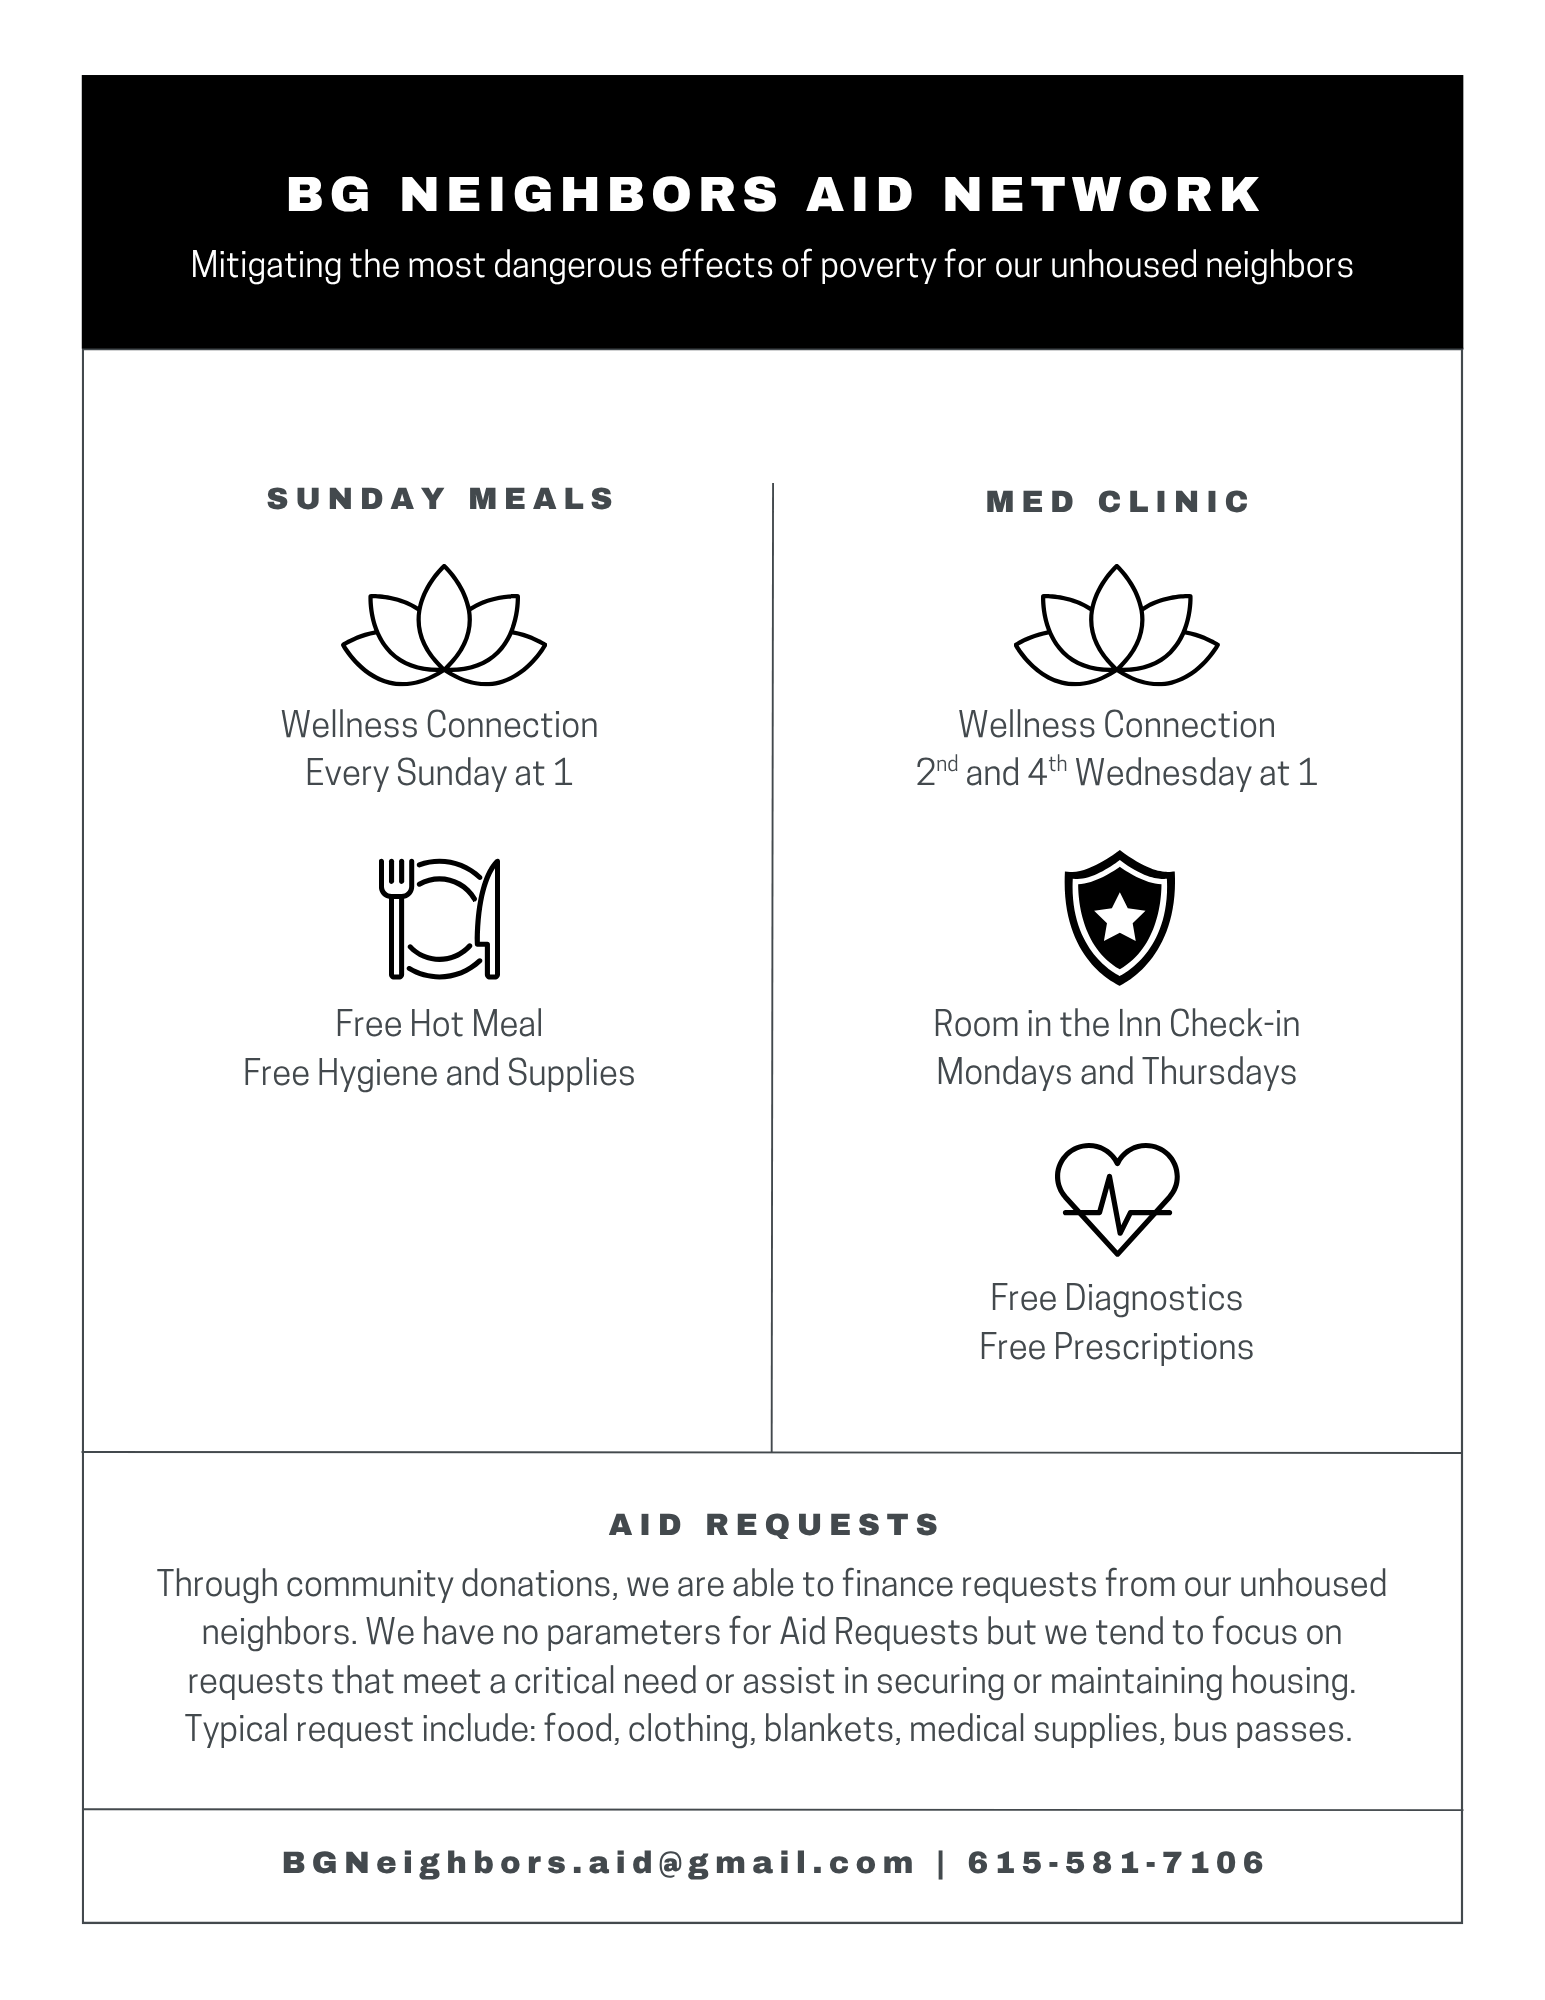
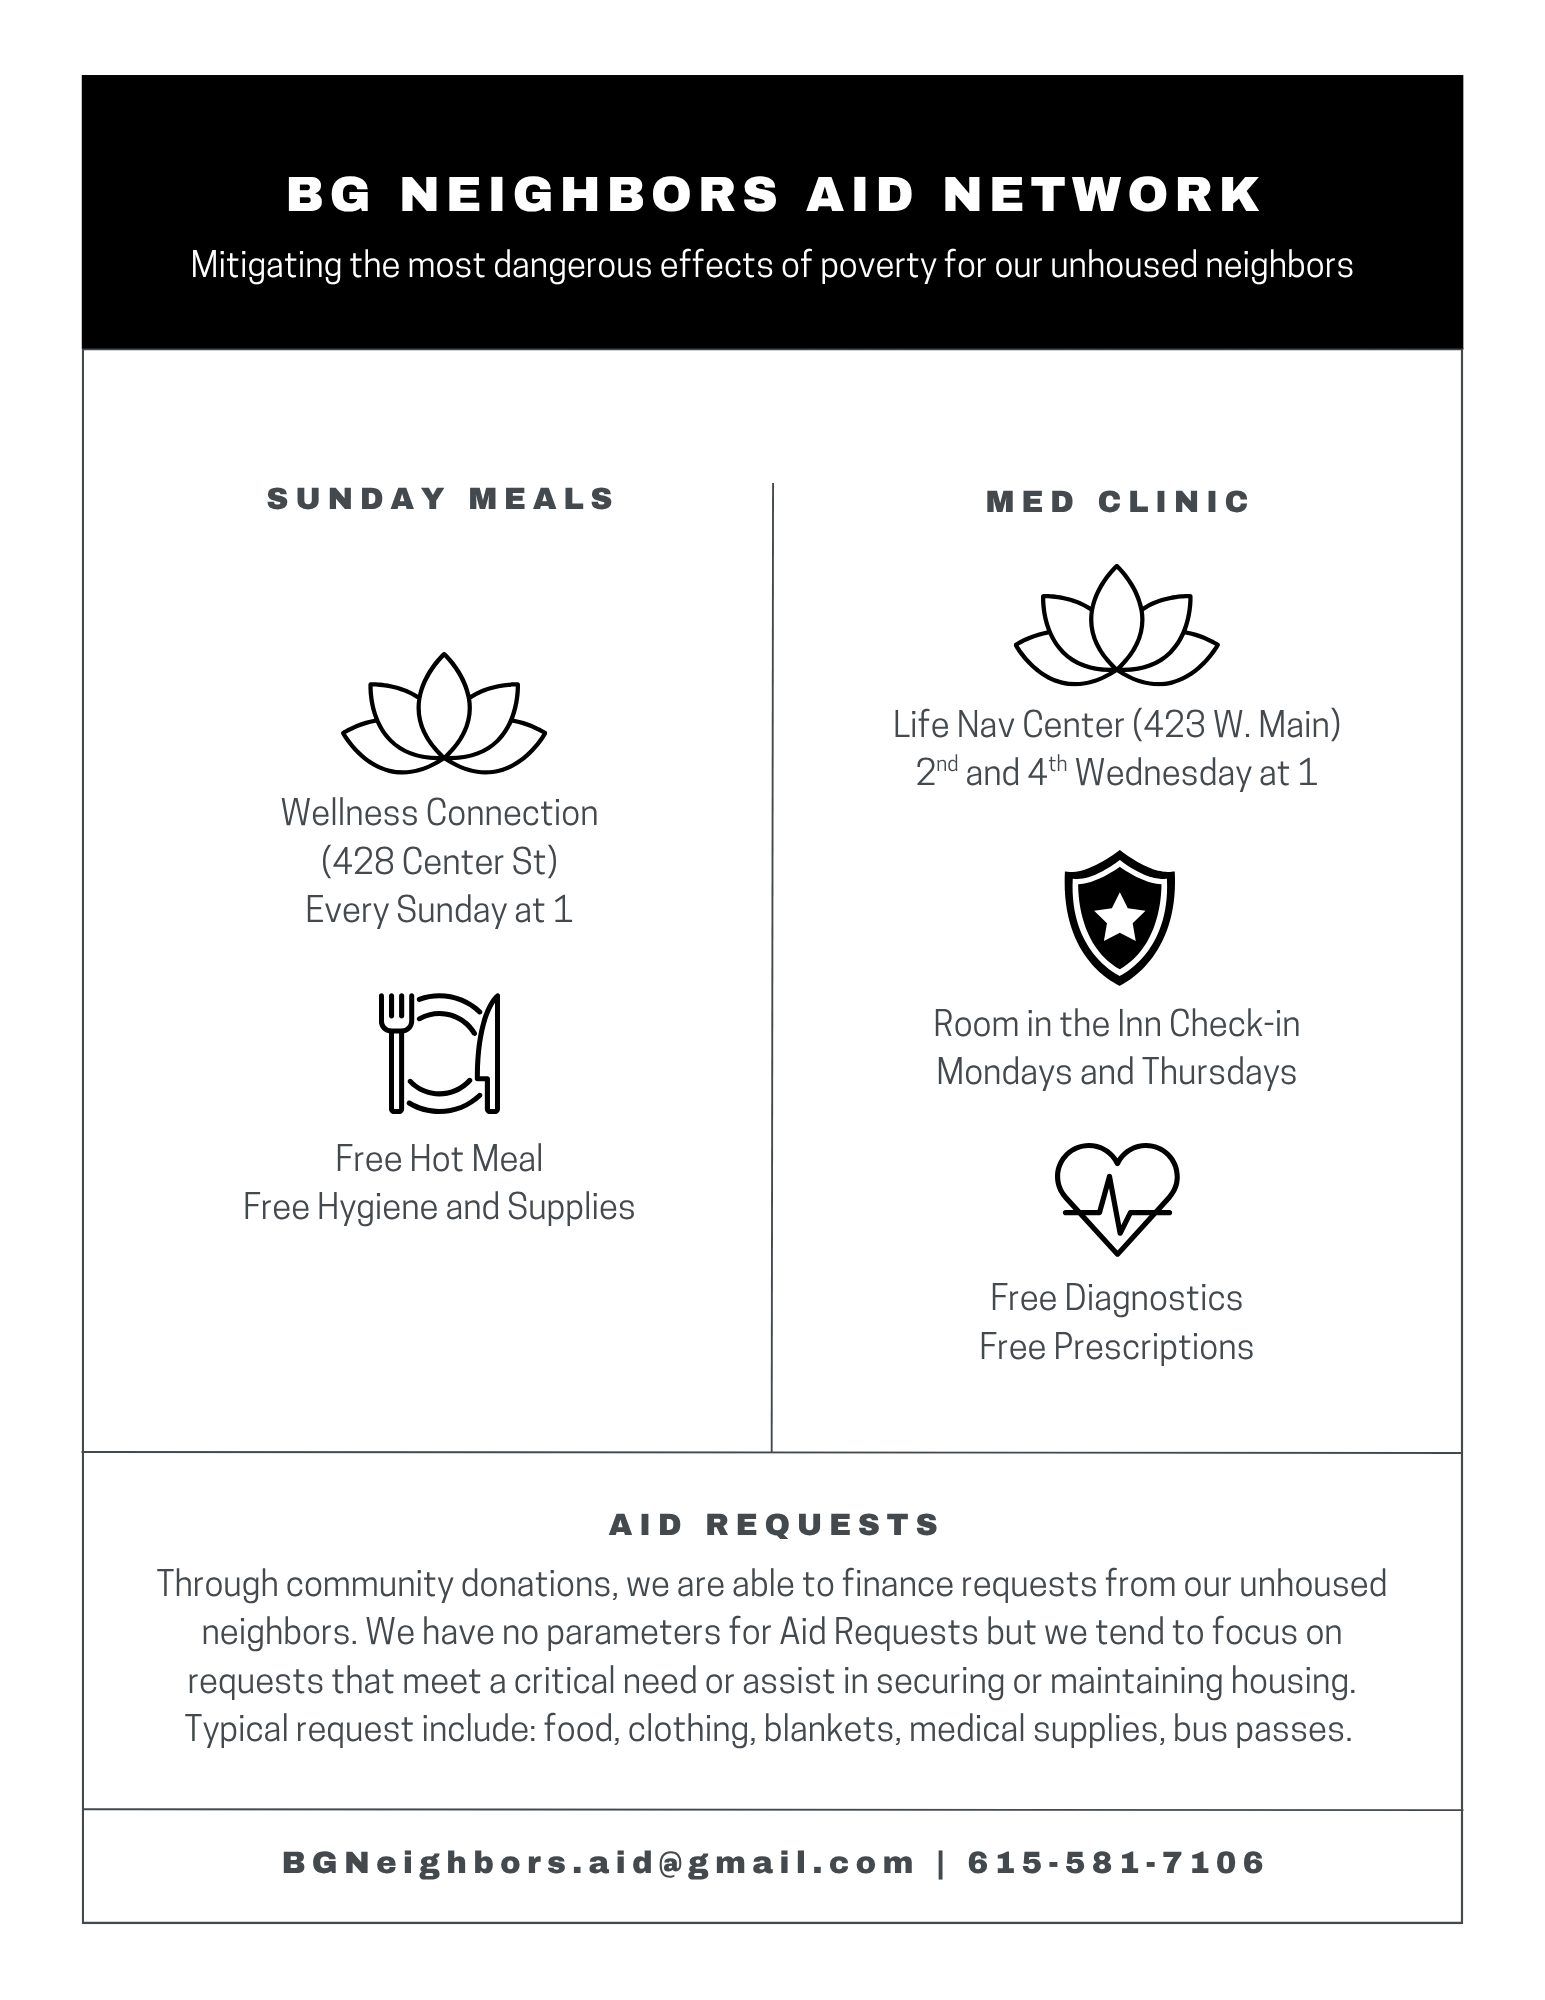
changed flyer

Changed region(s): [[0.1553, 0.279, 0.4039, 0.62], [0.5903, 0.341, 0.8699, 0.372]]

diff --git a/style.css b/style.css
@@ -113,6 +113,8 @@ html, body {
   padding: 20px;
   border-radius: 10px;  /* optional rounded corners */
   background: #fafafa;  /* light background, optional */
+  margin: 1rem 0;
+  box sizing: border-box;
 }
 
 .info-box h3 {
@@ -132,3 +134,36 @@ html, body {
 .info-box, .info-box * {
   color: #1a5261 !important;
 }
+
+@media (max-width: 600px) {
+  .info-box {
+    padding: 1rem;
+    font-size: 1rem;
+  }
+
+  body {
+    padding: 0 1rem;
+  }
+}
+
+.info-row {
+  display: flex;
+  gap: 1rem;
+}
+
+@media (max-width: 600px) {
+  .info-row {
+    flex-direction: column;
+  }
+}
+
+header img.logo {
+  max-width: 220px;
+}
+
+@media (max-width: 600px) {
+  header img.logo {
+    max-width: 150px;
+  }
+}
+
